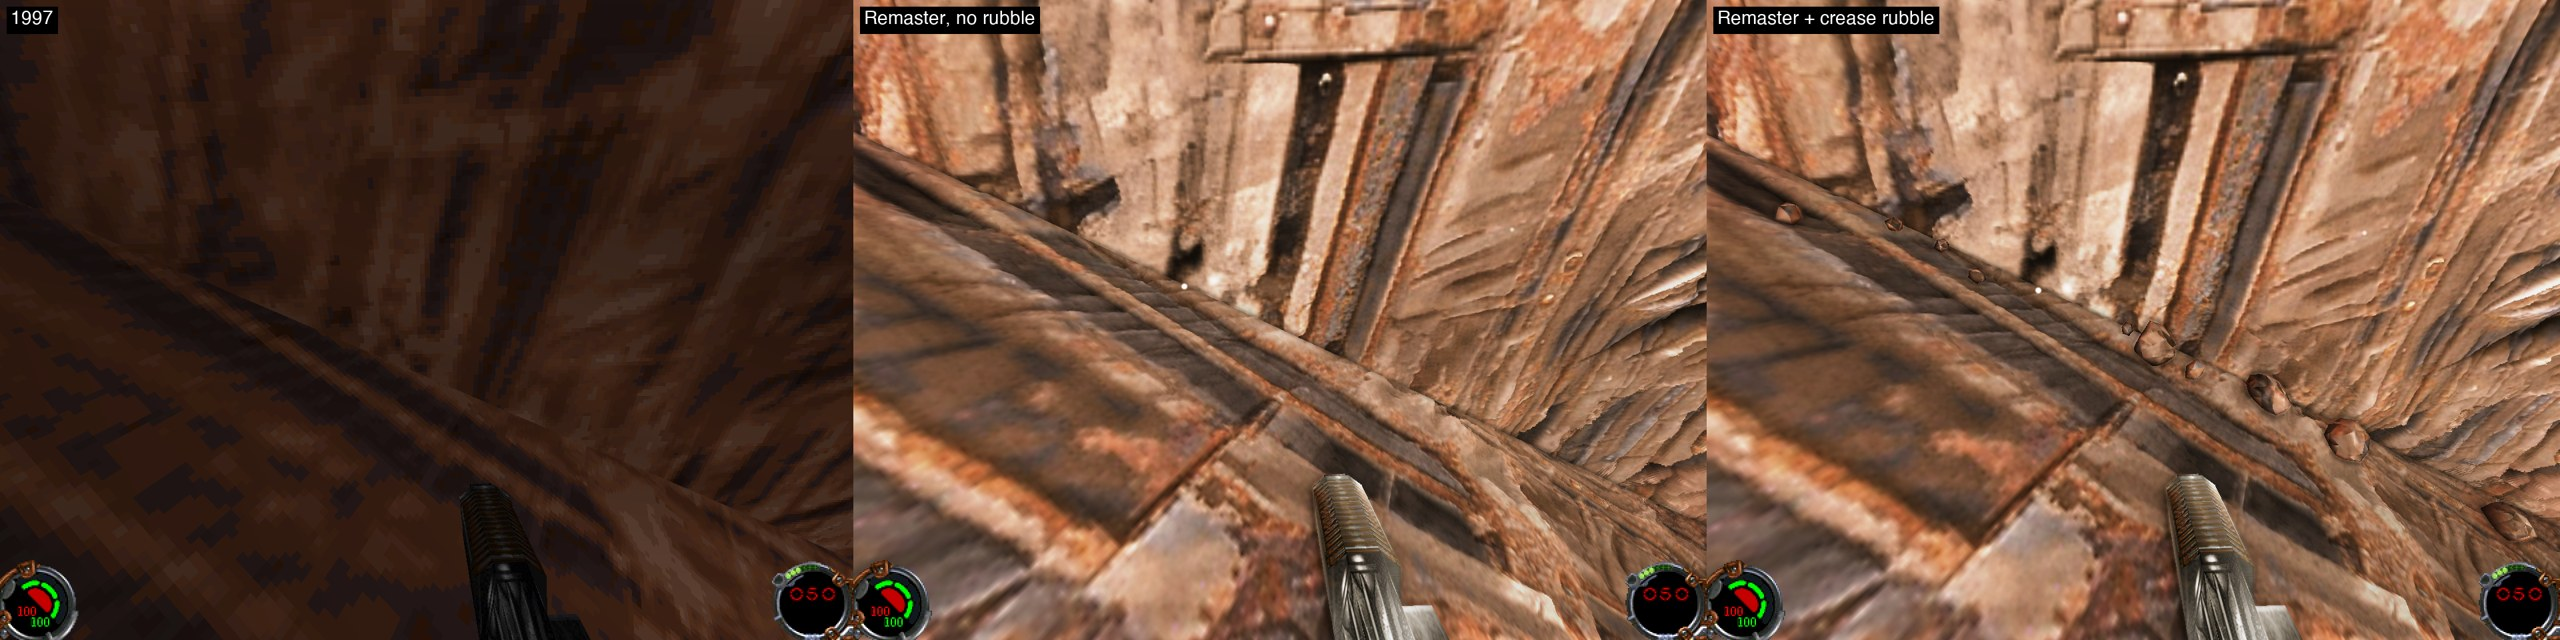
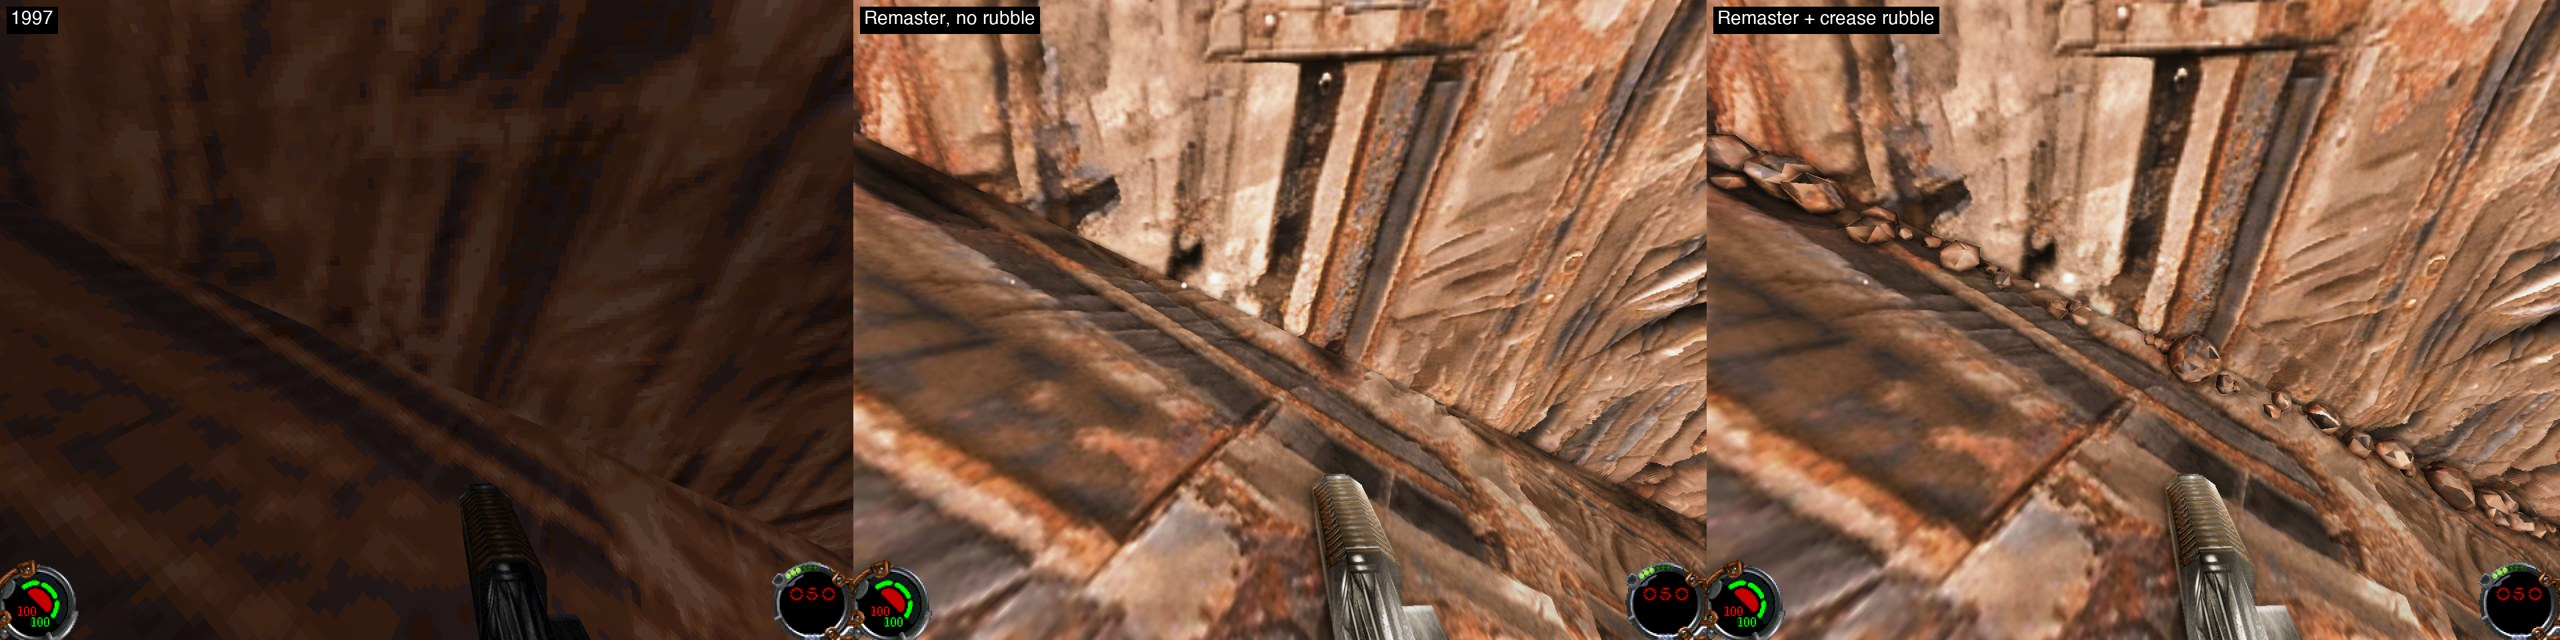
Crease rubble: denser (80 per unit, wider clusters, 40k cap)

diff --git a/tools/lightbake/terrain_skin.py b/tools/lightbake/terrain_skin.py
@@ -360,7 +360,7 @@ def rubble(d, creases, P, Pd, density, dmin, dmax, max_rocks, seed=7):
         if not len(xs):
             continue
         Q = a[None] + xs[:, None] * t[None]
-        c = np.clip((value_noise(Q * 3.0, 91) - 0.35) / 0.35, 0, 1) ** 1.5 * 2.5   # clusters and gaps
+        c = np.clip((value_noise(Q * 3.0, 91) - 0.2) / 0.4, 0, 1) ** 1.2 * 2.0   # clusters and short gaps
         hit = rng.random(len(xs)) < density * step * c
         for q in Q[hit]:
             dia = dmin * (dmax / dmin) ** (rng.random() ** 1.3)
@@ -376,7 +376,7 @@ def rubble(d, creases, P, Pd, density, dmin, dmax, max_rocks, seed=7):
     for base, r, fn, ws in rocks:
         _, i = tree.query(base)
         base = base + (Pd[i] - P[i])                     # onto the skin
-        IV, IF = shapes[r > 0.01]
+        IV, IF = shapes[r > 0.015]
         v = IV.copy()
         v *= (1 + 0.45 * (value_noise(v * 1.7 + rng.random(3) * 50, 5) - 0.5))[:, None]
         v *= np.array([1.0, rng.uniform(0.65, 1.0), rng.uniform(0.6, 0.9)])
@@ -439,8 +439,8 @@ def main():
     log("%d vertices, %d triangles; relief %.3f to %.3f (mean %.3f); %d pinned" % (
         len(P), len(T), float(D.min()), float(D.max()), float(D.mean()), int(border.sum())))
 
-    rb = rubble(d, creases, P, Pd, arg("--rocks", 45.0), arg("--rock-min", 0.010), arg("--rock-max", 0.045),
-                arg("--rocks-max", 30000, int))
+    rb = rubble(d, creases, P, Pd, arg("--rocks", 80.0), arg("--rock-min", 0.010), arg("--rock-max", 0.045),
+                arg("--rocks-max", 40000, int))
     rpath = os.path.join(folder, "rubble.npz")
     if rb:
         rP, rT, rUV, rS, nrocks, ncre = rb

diff --git a/docs/DECISIONS.md b/docs/DECISIONS.md
@@ -706,3 +706,4 @@ Dom approved docs/stage2-atmosphere-plan.md. Branch `stage2-atmosphere`.
 - Sizes: Dom asked for tennis ball to basketball, then "bigger too": now 10 cm to 45 cm across, fewer tiny ones, less flattened, a quarter buried. The tower: about 13,000 rocks, 45 per unit of crease before clustering, 20 triangles for small ones and 80 for big; 93 MB sidecar.
 - Bugs on the way: the first rock pass restored a colour attribute pointer while the rock buffer was still bound (the gun turned purple); the start view's only creases are hidden in a pit below the platform, which made it look like nothing was drawn. A debug colour that returns early from the world shader also breaks the fog pass (it reads the position outputs), so it can't be used to check visibility.
 - docs/screenshots/stage3-crease-rubble-tower.jpg (1997 / no rubble / rubble).
+- Dom: "make them denser". 80 rocks per unit of crease (was 45) with wider clusters and short gaps, capped at 40,000 a level (the tower hits the cap: 40,000 rocks, 1.3M triangles, 126 MB). Only rocks over 30 cm get the 80-triangle shape. No measurable frame cost on the tower (125-133 fps with or without). The small 20-triangle rocks read a little faceted (gem-like) up close.
